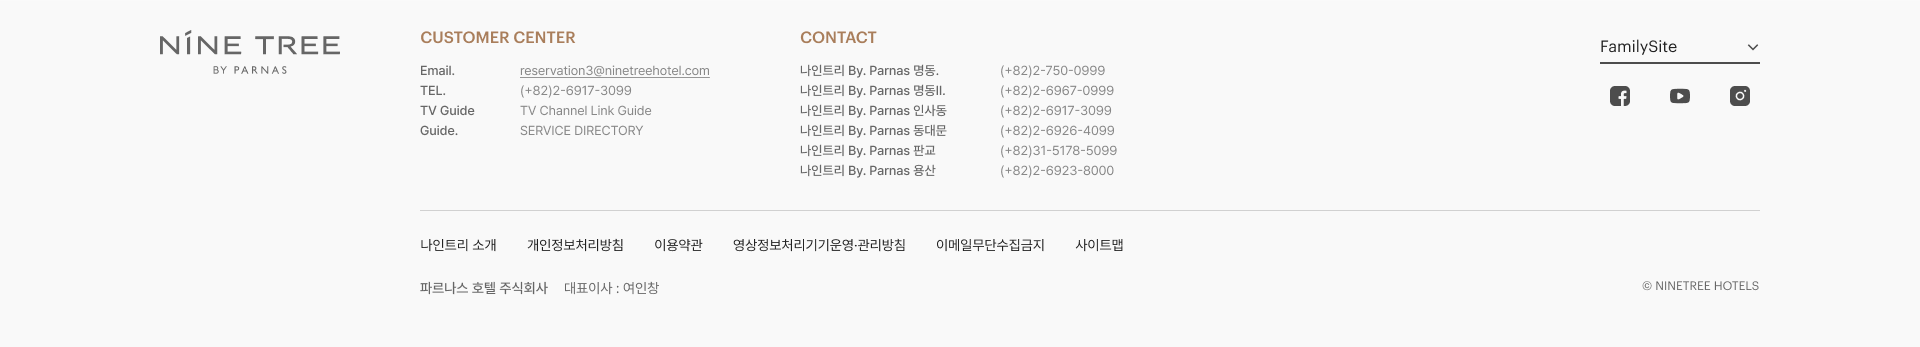
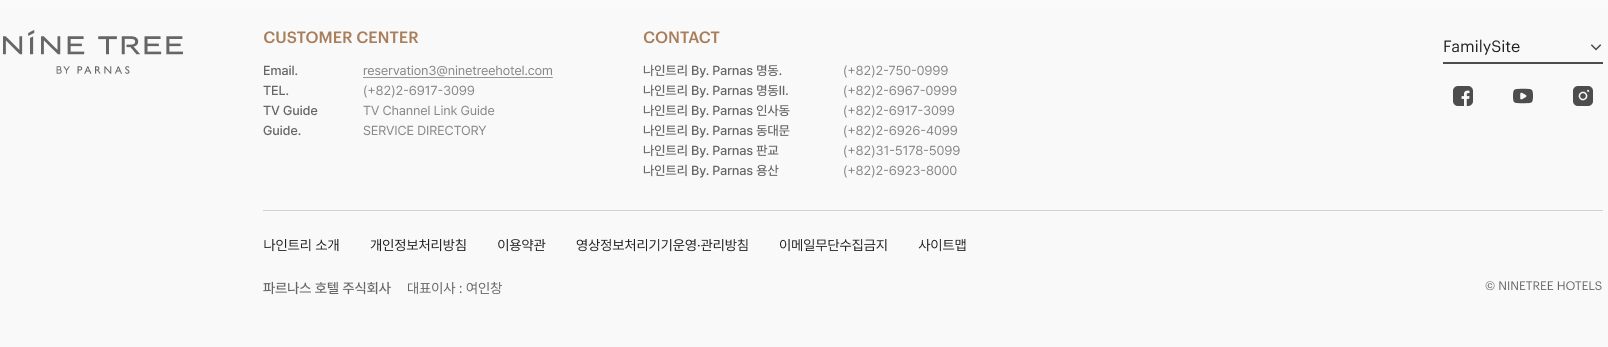
수정,.

diff --git a/Ninetree/Type_A.html b/Ninetree/Type_A.html
@@ -31,9 +31,30 @@
     <img src="static/images/arrow-right.svg" alt="" class="swiper-button-cion">
     <div class="swiper-pagination"></div>
     <div class="svg">
+      <!-- 모션은 되지만 깨짐 -->
+      <!-- <svg width="96" height="96" viewBox="0 0 96 96" fill="none" xmlns="http://www.w3.org/2000/svg">
+        <g filter="url(#filter0_d_124_4894)">
+          <rect x="4" y="4" width="84" height="84" rx="999" stroke="#E7542C" stroke-width="3"
+            shape-rendering="crispEdges" />
+        </g>
+        <defs>
+          <filter id="filter0_d_124_4894" x="0.5" y="0.5" width="95" height="95" filterUnits="userSpaceOnUse"
+            color-interpolation-filters="sRGB">
+            <feFlood flood-opacity="0" result="BackgroundImageFix" />
+            <feColorMatrix in="SourceAlpha" type="matrix" values="0 0 0 0 0 0 0 0 0 0 0 0 0 0 0 0 0 0 127 0"
+              result="hardAlpha" />
+            <feOffset dx="2" dy="2" />
+            <feGaussianBlur stdDeviation="2" />
+            <feComposite in2="hardAlpha" operator="out" />
+            <feColorMatrix type="matrix" values="0 0 0 0 0 0 0 0 0 0 0 0 0 0 0 0 0 0 0.25 0" />
+            <feBlend mode="normal" in2="BackgroundImageFix" result="effect1_dropShadow_124_4894" />
+            <feBlend mode="normal" in="SourceGraphic" in2="effect1_dropShadow_124_4894" result="shape" />
+          </filter>
+        </defs>
+      </svg> -->
       <svg width="96" height="96" viewBox="0 0 96 96" fill="none" xmlns="http://www.w3.org/2000/svg">
         <g filter="url(#filter0_d_124_4894)">
-          <rect x="4" y="4" width="84" height="84" rx="42" stroke="#E7542C" stroke-width="3"
+          <rect x="4" y="4" width="84" height="84" rx="999" stroke="#E7542C" stroke-width="3"
             shape-rendering="crispEdges" />
         </g>
         <defs>
@@ -51,6 +72,28 @@
           </filter>
         </defs>
       </svg>
+      <!-- 깨지지 않지만 모션이 불가 -->
+      <!-- <svg xmlns="http://www.w3.org/2000/svg" width="95" height="96" viewBox="0 0 95 96" fill="none">
+        <g filter="url(#filter0_d_133_4910)">
+          <path fill-rule="evenodd" clip-rule="evenodd"
+            d="M5 46C5 23.6325 23.1325 5.5 45.5 5.5C67.8675 5.5 86 23.6325 86 46C86 68.3675 67.8675 86.5 45.5 86.5C23.1325 86.5 5 68.3675 5 46ZM45.5 2.5C21.4756 2.5 2 21.9756 2 46C2 70.0244 21.4756 89.5 45.5 89.5C69.5244 89.5 89 70.0244 89 46C89 21.9756 69.5244 2.5 45.5 2.5Z"
+            fill="#E7542C" />
+        </g>
+        <defs>
+          <filter id="filter0_d_133_4910" x="0" y="0.5" width="95" height="95" filterUnits="userSpaceOnUse"
+            color-interpolation-filters="sRGB">
+            <feFlood flood-opacity="0" result="BackgroundImageFix" />
+            <feColorMatrix in="SourceAlpha" type="matrix" values="0 0 0 0 0 0 0 0 0 0 0 0 0 0 0 0 0 0 127 0"
+              result="hardAlpha" />
+            <feOffset dx="2" dy="2" />
+            <feGaussianBlur stdDeviation="2" />
+            <feComposite in2="hardAlpha" operator="out" />
+            <feColorMatrix type="matrix" values="0 0 0 0 0 0 0 0 0 0 0 0 0 0 0 0 0 0 0.25 0" />
+            <feBlend mode="normal" in2="BackgroundImageFix" result="effect1_dropShadow_133_4910" />
+            <feBlend mode="normal" in="SourceGraphic" in2="effect1_dropShadow_133_4910" result="shape" />
+          </filter>
+        </defs>
+      </svg> -->
     </div>
   </div>
   <!-- //마우스 커서 -->
@@ -77,15 +120,15 @@
     <div class="swiper-wrapper">
       <div class="swiper-slide">
         <div class="img"><span><img src="static/images/main_kv_1.jpg" alt=""></span></div>
-        <div class="text"><img src="static/images/kv_text_1.png" alt=""></div>
+        <div class="text"><img src="static/images/kv_text_1.png" alt="" data-aos="fade-up"></div>
       </div>
       <div class="swiper-slide">
         <div class="img"><span><img src="static/images/main_kv_2.png" alt=""></span></div>
-        <div class="text"><img src="static/images/kv_text_2.png" alt=""></div>
+        <div class="text"><img src="static/images/kv_text_2.png" alt="" data-aos="fade-up"></div>
       </div>
       <div class="swiper-slide">
         <div class="img"><span><img src="static/images/main_kv_3.png" alt=""></span></div>
-        <div class="text"><img src="static/images/kv_text_1.png" alt=""></div>
+        <div class="text"><img src="static/images/kv_text_1.png" alt="" data-aos="fade-up"></div>
       </div>
     </div>
     <div class="swiper-button-prev"></div>
@@ -98,28 +141,28 @@
   <div class="box-location">
     <div class="inner">
       <div class="top-info">
-        <img src="static/images/location_text_1.png" alt="">
-        <img src="static/images/location_text_2.png" alt="" class="posi">
+        <img src="static/images/location_text_1.png" alt="" data-aos="fade-up">
+        <img src="static/images/location_text_2.png" alt="" class="posi" data-aos="fade-up">
       </div>
       <div class="swiper-location">
         <div class="swiper-wrapper">
           <div class="swiper-slide">
-            <img src="static/images/location_img_1.png" alt="">
+            <img src="static/images/location_img_1.png" alt="" data-aos="fade-left">
           </div>
           <div class="swiper-slide">
-            <img src="static/images/location_img_2.png" alt="">
+            <img src="static/images/location_img_2.png" alt="" data-aos="fade-left" data-aos-delay="300">
           </div>
           <div class="swiper-slide">
-            <img src="static/images/location_img_3.png" alt="">
+            <img src="static/images/location_img_3.png" alt="" data-aos="fade-left" data-aos-delay="500">
           </div>
           <div class="swiper-slide">
-            <img src="static/images/location_img_4.png" alt="">
+            <img src="static/images/location_img_4.png" alt="" data-aos="fade-left" data-aos-delay="700">
           </div>
           <div class="swiper-slide">
-            <img src="static/images/location_img_5.png" alt="">
+            <img src="static/images/location_img_5.png" alt="" data-aos="fade-left" data-aos-delay="900">
           </div>
           <div class="swiper-slide">
-            <img src="static/images/location_img_6.png" alt="">
+            <img src="static/images/location_img_6.png" alt="" data-aos="fade-left" data-aos-delay="1100">
           </div>
         </div>
       </div>
@@ -133,25 +176,25 @@
   <div class="box-special">
     <div class="inner">
       <div class="top-info">
-        <img src="static/images/special_text_1.png" alt="">
-        <img src="static/images/special_text_2.png" alt="" class="posi">
+        <img src="static/images/special_text_1.png" alt="" data-aos="fade-up">
+        <img src="static/images/special_text_2.png" alt="" class="posi" data-aos="fade-up">
       </div>
       <div class="swiper-special">
         <div class="swiper-wrapper">
           <div class="swiper-slide">
-            <img src="static/images/special_img_1.png" alt="">
+            <img src="static/images/special_img_1.png" alt="" data-aos="fade-left">
           </div>
           <div class="swiper-slide">
-            <img src="static/images/special_img_2.png" alt="">
+            <img src="static/images/special_img_2.png" alt="" data-aos="fade-left" data-aos-delay="300">
           </div>
           <div class="swiper-slide">
-            <img src="static/images/special_img_3.png" alt="">
+            <img src="static/images/special_img_3.png" alt="" data-aos="fade-left" data-aos-delay="500">
           </div>
           <div class="swiper-slide">
-            <img src="static/images/special_img_4.png" alt="">
+            <img src="static/images/special_img_4.png" alt="" data-aos="fade-left" data-aos-delay="700">
           </div>
           <div class="swiper-slide">
-            <img src="static/images/special_img_5.png" alt="">
+            <img src="static/images/special_img_5.png" alt="" data-aos="fade-left" data-aos-delay="900">
           </div>
         </div>
       </div>
@@ -165,19 +208,19 @@
   <div class="box-gallery">
     <div class="inner">
       <div class="top-info">
-        <img src="static/images/gallery_text_1.png" alt="">
-        <img src="static/images/gallery_text_2.png" alt="" class="posi">
+        <img src="static/images/gallery_text_1.png" alt="" data-aos="fade-up">
+        <img src="static/images/gallery_text_2.png" alt="" class="posi" data-aos="fade-up">
       </div>
       <div class="swiper-gallery">
         <div class="swiper-wrapper">
           <div class="swiper-slide">
-            <img src="static/images/gallery_img_1.png" alt="">
+            <img src="static/images/gallery_img_1.png" alt="" data-aos="fade-left">
           </div>
           <div class="swiper-slide">
-            <img src="static/images/gallery_img_2.png" alt="">
+            <img src="static/images/gallery_img_2.png" alt="" data-aos="fade-left" data-aos-delay="300">
           </div>
           <div class="swiper-slide">
-            <img src="static/images/gallery_img_3.png" alt="">
+            <img src="static/images/gallery_img_3.png" alt="" data-aos="fade-left" data-aos-delay="500">
           </div>
         </div>
       </div>
@@ -187,7 +230,7 @@
   </div>
   <!-- //box-gallery -->
 
-  <div class="ct_text_1">
+  <div class="ct_text_1" data-aos="fade-up">
     <img src="static/images/footer_ct_text_1.png" alt="">
   </div>
 
@@ -195,12 +238,12 @@
   <div class="box-footer-ct">
     <div class="inner">
       <div class="flex">
-        <img src="static/images/footer_ct_1.png" alt="">
-        <img src="static/images/footer_ct_2.png" alt="">
+        <img src="static/images/footer_ct_1.png" alt="" data-aos="fade-right">
+        <img src="static/images/footer_ct_2.png" alt="" data-aos="fade-left" data-aos-offest="200">
       </div>
       <div class="flex">
-        <img src="static/images/footer_ct_3.png" alt="">
-        <img src="static/images/footer_ct_4.png" alt="">
+        <img src="static/images/footer_ct_3.png" alt="" data-aos="fade-right">
+        <img src="static/images/footer_ct_4.png" alt="" data-aos="fade-left" data-aos-offest="200">
       </div>
     </div>
   </div>
@@ -220,7 +263,7 @@
 
     // box-hedaer
     ScrollTrigger.create({
-      trigger: ".box-header",
+      trigger: ".box-main-kv",
       start: "top top",
       end: "bottom bototm",
       scrub: 2,

diff --git a/Ninetree/static/css/scss/style.scss b/Ninetree/static/css/scss/style.scss
@@ -279,7 +279,7 @@ button {
 // box-header
 .box-header {
   position: fixed;
-  top: 0;
+  top: -100%;
   left: 48px;
   right: 48px;
   background-blend-mode: multiply;
@@ -287,7 +287,17 @@ button {
   z-index: 5000;
   padding: 20px 0;
   border-bottom: 1px solid var(--Transparent-w_60, rgba(255, 255, 255, 0.6));
-  transition: all .4s;
+  transition: all 0.4s;
+
+  animation: header 1.9s infinite;
+  animation-iteration-count: 1;
+  animation-fill-mode: forwards;
+
+  @keyframes header {
+    to {
+      top: 0;
+    }
+  }
   &::before {
     content: "";
     display: block;
@@ -297,7 +307,7 @@ button {
     left: -48px;
     right: -48px;
     height: 72px;
-    transition: all .4s;
+    transition: all 0.4s;
   }
   .inner {
     .gap {
@@ -327,7 +337,7 @@ button {
     // padding-right: 48px;
     height: 73px;
     border-bottom: 1px solid var(--Transparent-b_60, rgba(0, 0, 0, 0.6));
-    
+
     &::before {
       background: var(--Gray-white, #fff);
     }
@@ -379,10 +389,20 @@ button {
   }
   .bottom-img {
     position: absolute;
-    bottom: 0;
+    bottom: -100%;
     left: 50%;
     transform: translate(-50%, 0);
     z-index: 100;
+
+    animation: bottomImg 2s infinite;
+    animation-iteration-count: 1;
+    animation-fill-mode: forwards;
+
+    @keyframes bottomImg {
+      to {
+        bottom: 0;
+      }
+    }
   }
   .swiper-button-next,
   .swiper-button-prev {
@@ -516,6 +536,7 @@ button {
   .svg {
     opacity: 0;
     svg {
+      border-radius: 999;
       position: absolute;
       top: -4px;
       left: -4px;
@@ -763,5 +784,12 @@ button {
 
 // box-footer
 .box-footer {
+  background: var(--Gray-bg, #F9F9F9);
   text-align: center;
+  display: flex;
+  justify-content: center;
+  align-items: center;
+  img{
+    object-fit: contain;
+  }
 }

diff --git a/Ninetree/static/css/style.css b/Ninetree/static/css/style.css
@@ -262,7 +262,7 @@ button {
 
 .box-header {
   position: fixed;
-  top: 0;
+  top: -100%;
   left: 48px;
   right: 48px;
   background-blend-mode: multiply;
@@ -271,6 +271,14 @@ button {
   padding: 20px 0;
   border-bottom: 1px solid var(--Transparent-w_60, rgba(255, 255, 255, 0.6));
   transition: all 0.4s;
+  animation: header 1.9s infinite;
+  animation-iteration-count: 1;
+  animation-fill-mode: forwards;
+}
+@keyframes header {
+  to {
+    top: 0;
+  }
 }
 .box-header::before {
   content: "";
@@ -349,10 +357,18 @@ button {
 }
 .box-main-kv .bottom-img {
   position: absolute;
-  bottom: 0;
+  bottom: -100%;
   left: 50%;
   transform: translate(-50%, 0);
   z-index: 100;
+  animation: bottomImg 2s infinite;
+  animation-iteration-count: 1;
+  animation-fill-mode: forwards;
+}
+@keyframes bottomImg {
+  to {
+    bottom: 0;
+  }
 }
 .box-main-kv .swiper-button-next,
 .box-main-kv .swiper-button-prev {
@@ -468,6 +484,7 @@ button {
   opacity: 0;
 }
 .window-cursor .svg svg {
+  border-radius: 999;
   position: absolute;
   top: -4px;
   left: -4px;
@@ -701,5 +718,12 @@ button {
 }
 
 .box-footer {
+  background: var(--Gray-bg, #F9F9F9);
   text-align: center;
+  display: flex;
+  justify-content: center;
+  align-items: center;
+}
+.box-footer img {
+  object-fit: contain;
 }/*# sourceMappingURL=style.css.map */
